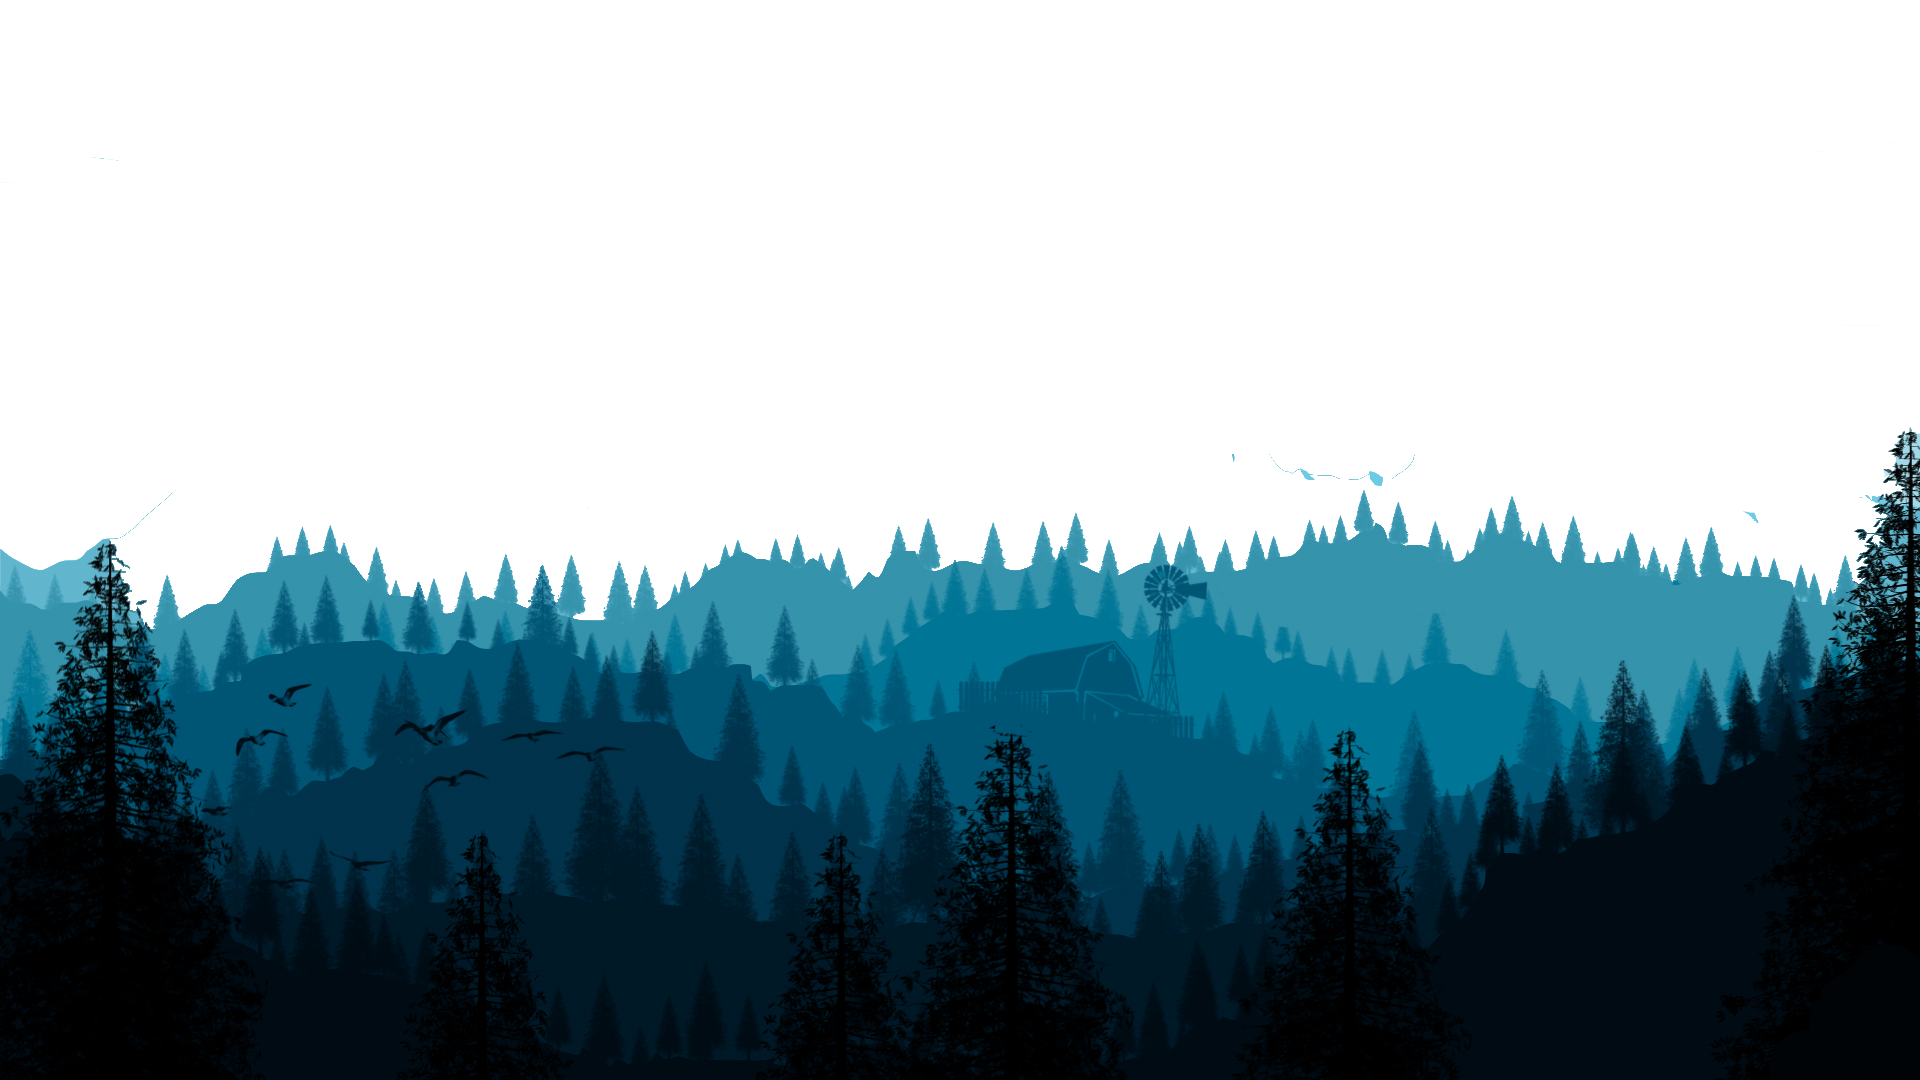
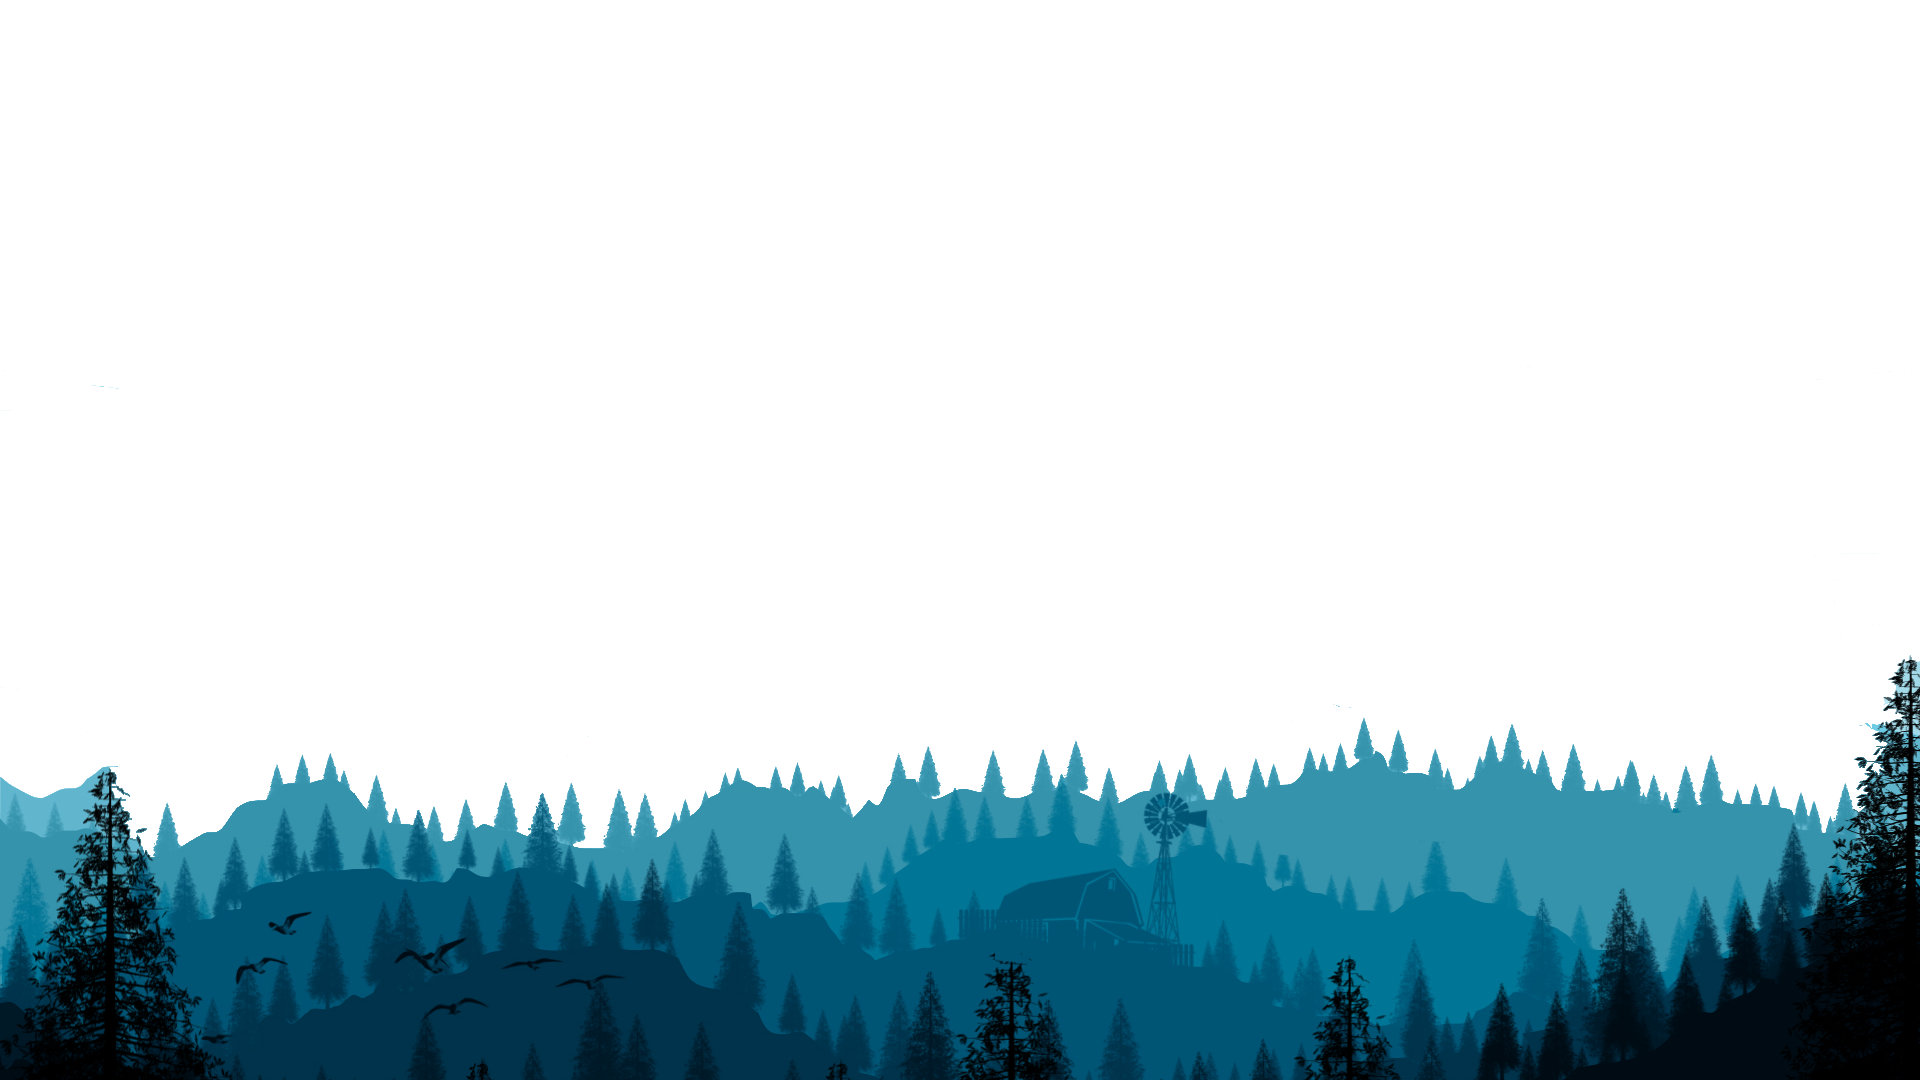
mod

diff --git a/css/custom.css b/css/custom.css
@@ -11,5 +11,8 @@
 
 body {
     background: url("https://raw.githubusercontent.com/Gruuve/engine-homepage/master/images/backimg.png");
-    background-repeat: no-repeat; /*Prevent showing multiple background images*/
+    height: 100%; 
+    width: 100%;
+    background-repeat: no-repeat;
+    background-size: cover;
  }

diff --git a/index.html b/index.html
@@ -26,7 +26,7 @@
         <a class="navbar-brand" href="#">
           <div class="temp">Gruuve
 
-                <font class="subtag">Search Engine</font>
+                <font class="subtag">Search</font>
 
           </div>
         </a>
